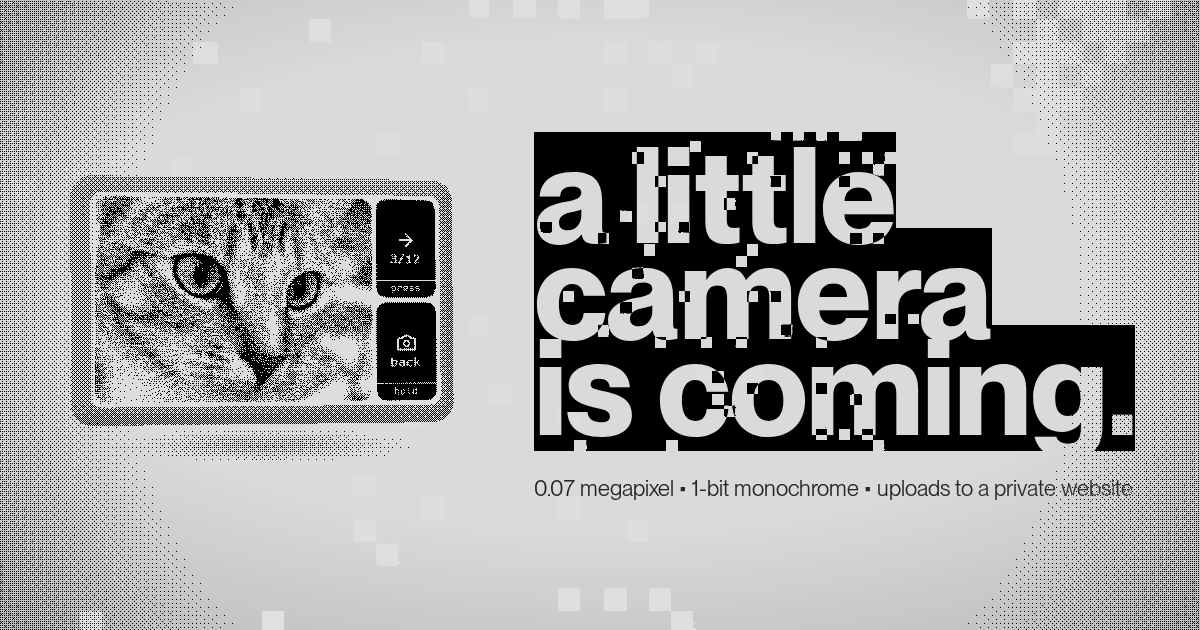
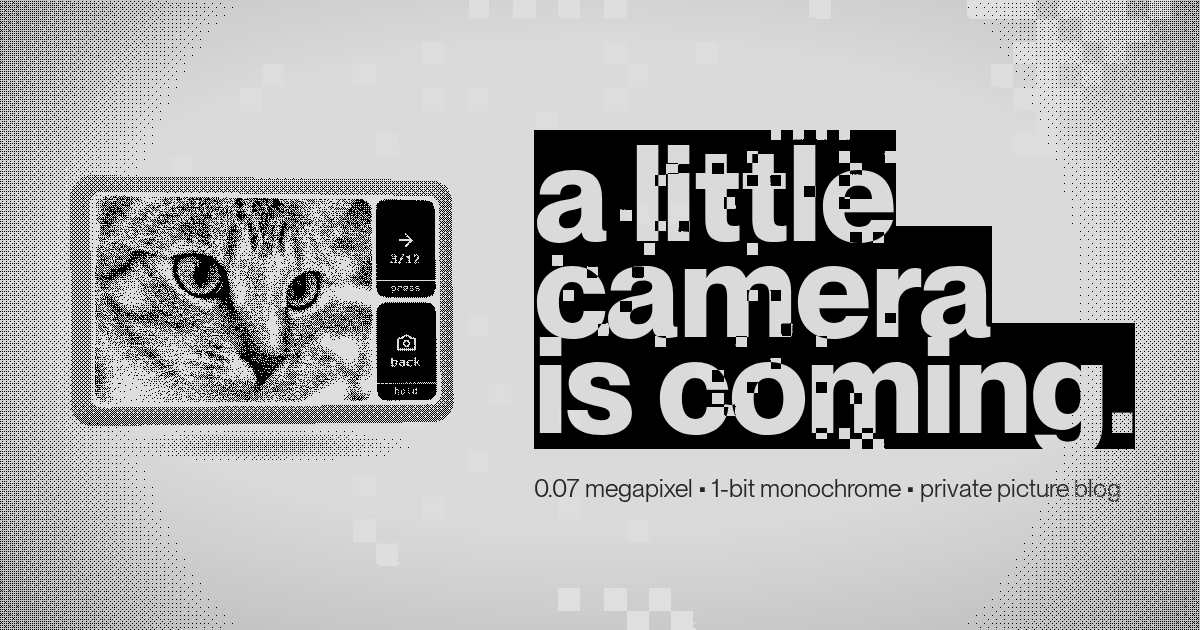
chore(site): shortening the spec line to private picture blog
Claude-Session: https://claude.ai/code/session_018Do1eGLFYYJFzp83wMP41s

diff --git a/site/index.html b/site/index.html
@@ -4,7 +4,7 @@
 <meta charset="utf-8">
 <meta name="viewport" content="width=device-width, initial-scale=1, viewport-fit=cover">
 <title>a little camera</title>
-<meta name="description" content="0.07 megapixel • 1-bit monochrome • uploads to a private website">
+<meta name="description" content="0.07 megapixel • 1-bit monochrome • private picture blog">
 <link rel="canonical" href="https://lttl.cam/">
 <meta name="color-scheme" content="light">
 <meta name="theme-color" content="#dddddd">
@@ -17,7 +17,7 @@
      dither, same glitched headline. -->
 <meta property="og:site_name" content="lttl.cam">
 <meta property="og:title" content="a little camera is coming">
-<meta property="og:description" content="0.07 megapixel • 1-bit monochrome • uploads to a private website">
+<meta property="og:description" content="0.07 megapixel • 1-bit monochrome • private picture blog">
 <meta property="og:type" content="website">
 <meta property="og:url" content="https://lttl.cam/">
 <meta property="og:locale" content="en">
@@ -28,7 +28,7 @@
 <meta property="og:image:alt" content="a small dithered camera beside the words a little camera is coming.">
 <meta name="twitter:card" content="summary_large_image">
 <meta name="twitter:title" content="a little camera is coming">
-<meta name="twitter:description" content="0.07 megapixel • 1-bit monochrome • uploads to a private website">
+<meta name="twitter:description" content="0.07 megapixel • 1-bit monochrome • private picture blog">
 <meta name="twitter:image" content="https://lttl.cam/media/og.png">
 <meta name="twitter:image:alt" content="a small dithered camera beside the words a little camera is coming.">
 <!-- The headline is fitted by measuring the font that actually resolved, so a

diff --git a/site/README.md b/site/README.md
@@ -163,7 +163,7 @@ say.style.flex = '0 0 auto';
 say.style.width = col + 'px';
 
 const by = document.querySelector('.by');
-by.textContent = '0.07 megapixel \u2022 1-bit monochrome \u2022 uploads to a private website';
+by.textContent = '0.07 megapixel \u2022 1-bit monochrome \u2022 private picture blog';
 by.style.whiteSpace = 'nowrap';
 
 spinFrom = 0; spinTo = 0; spinAt = -1e9;
